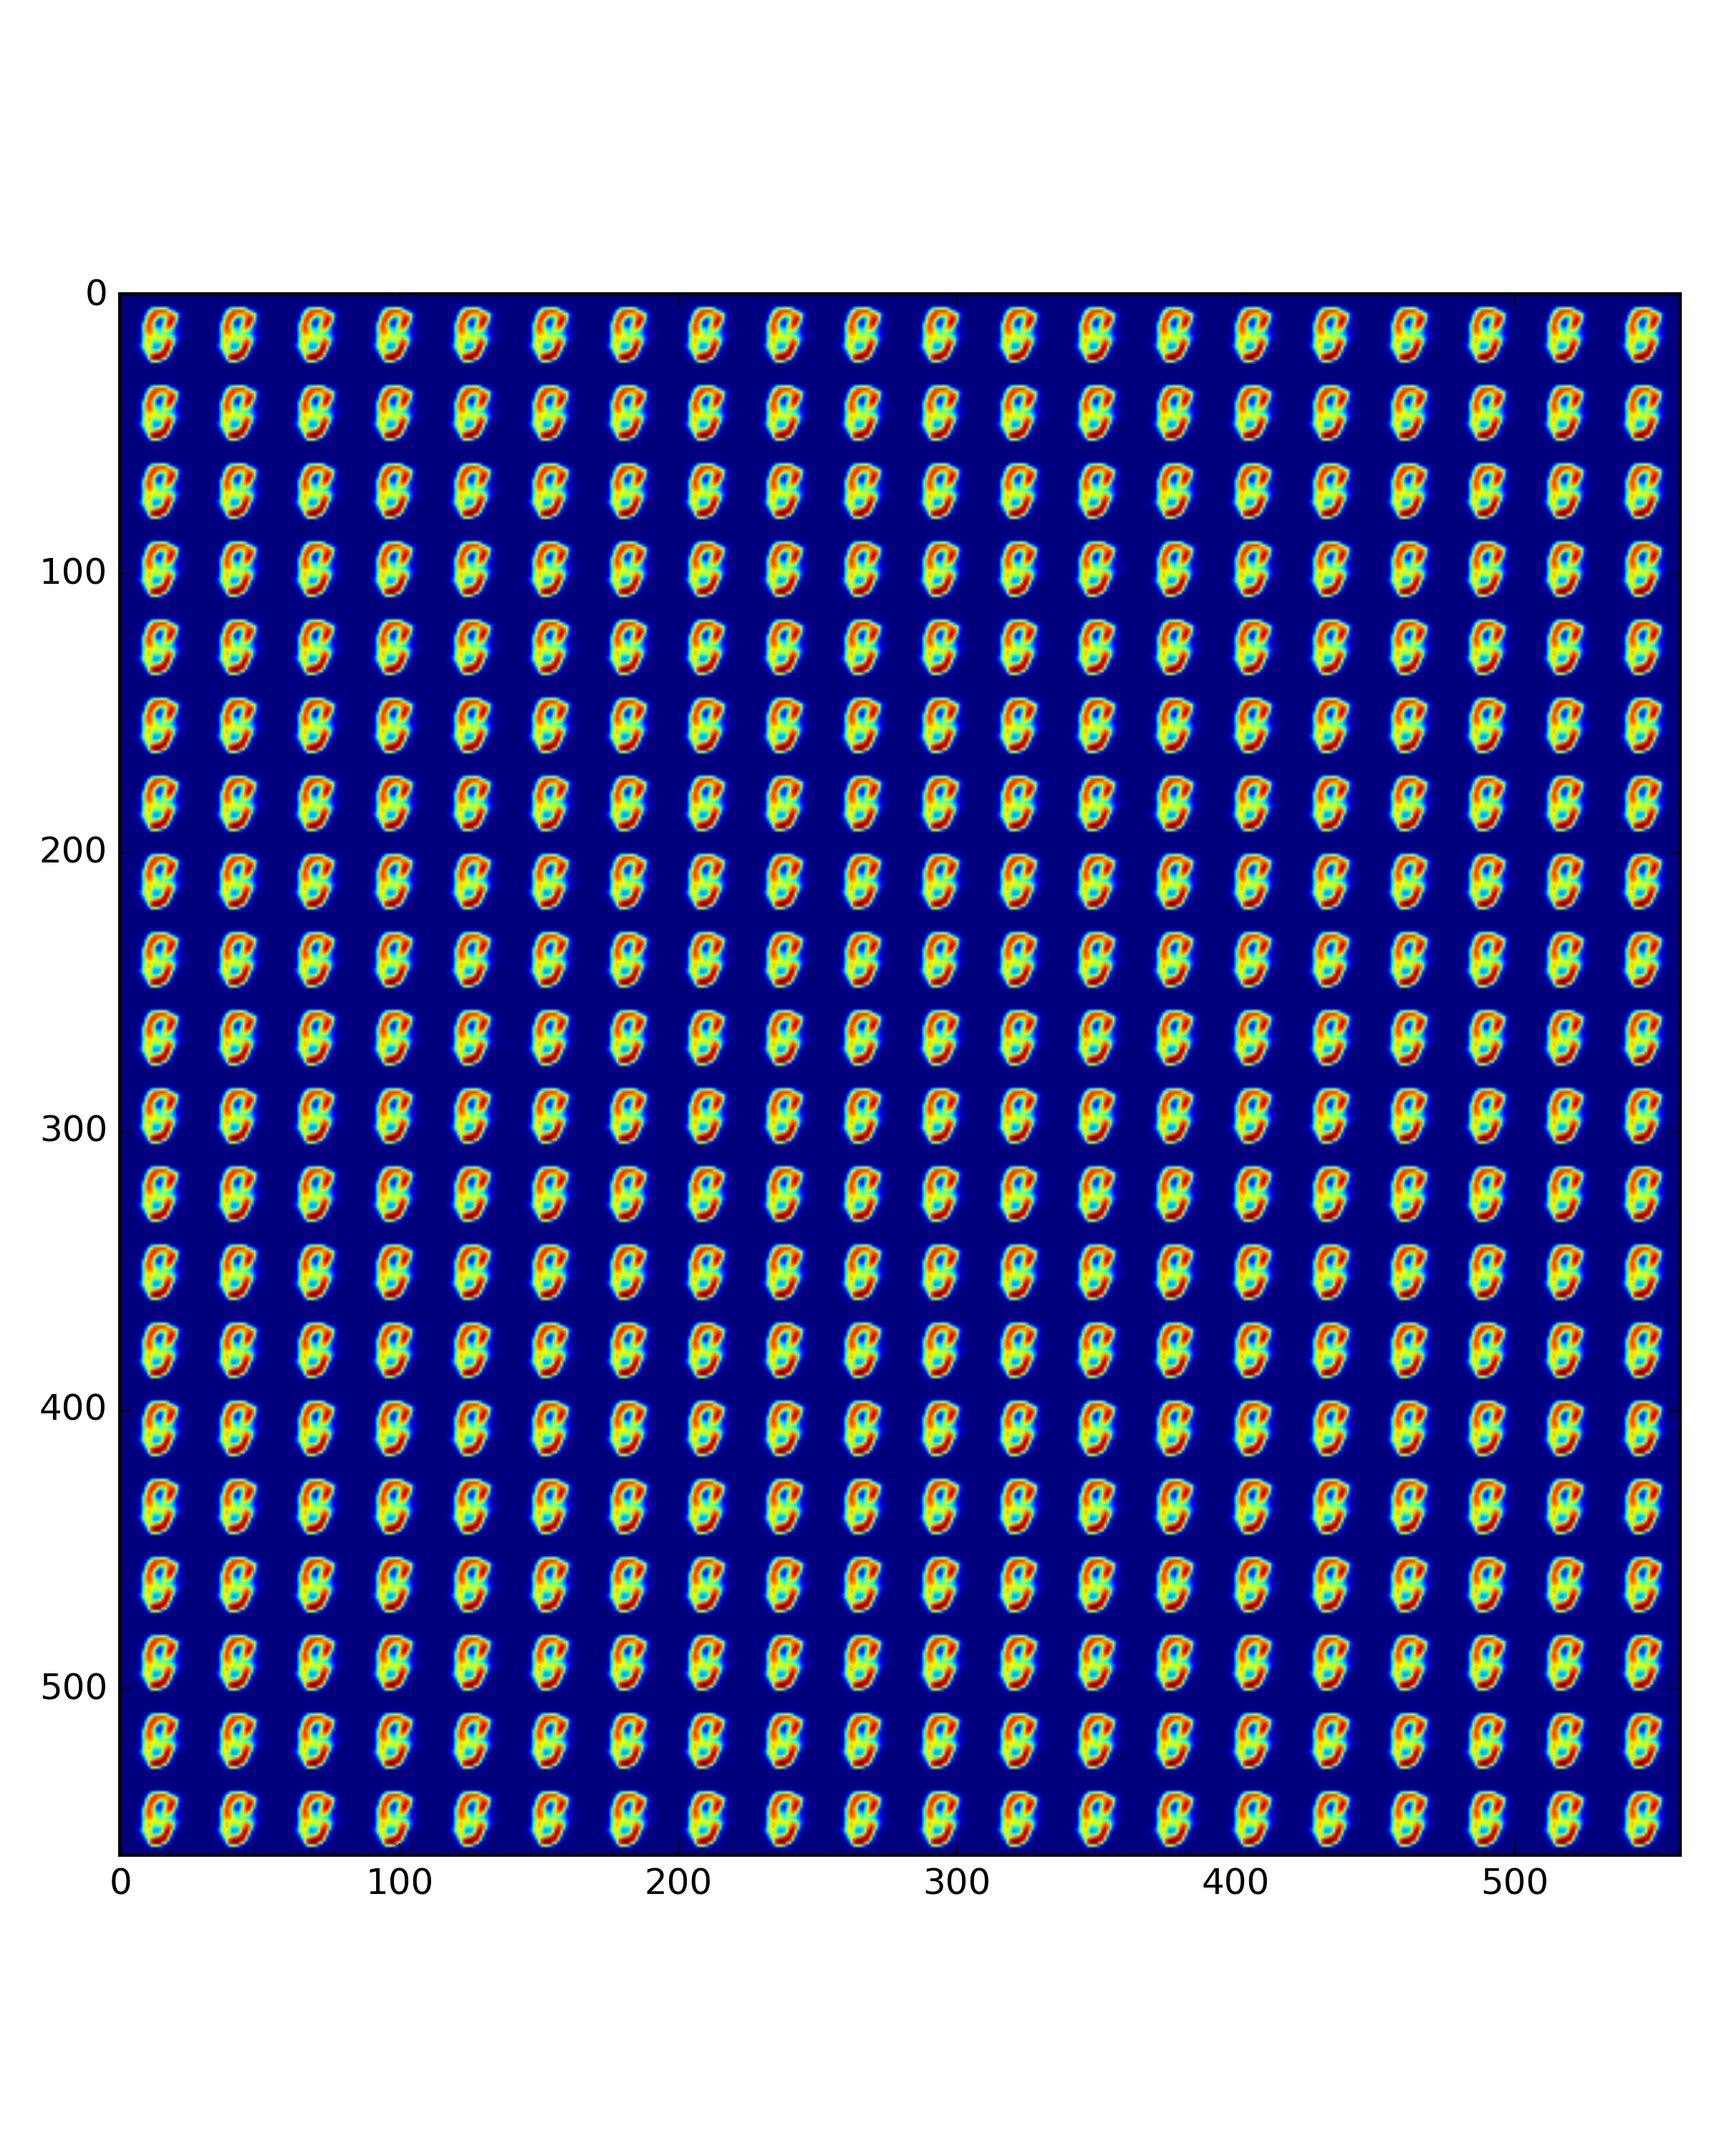
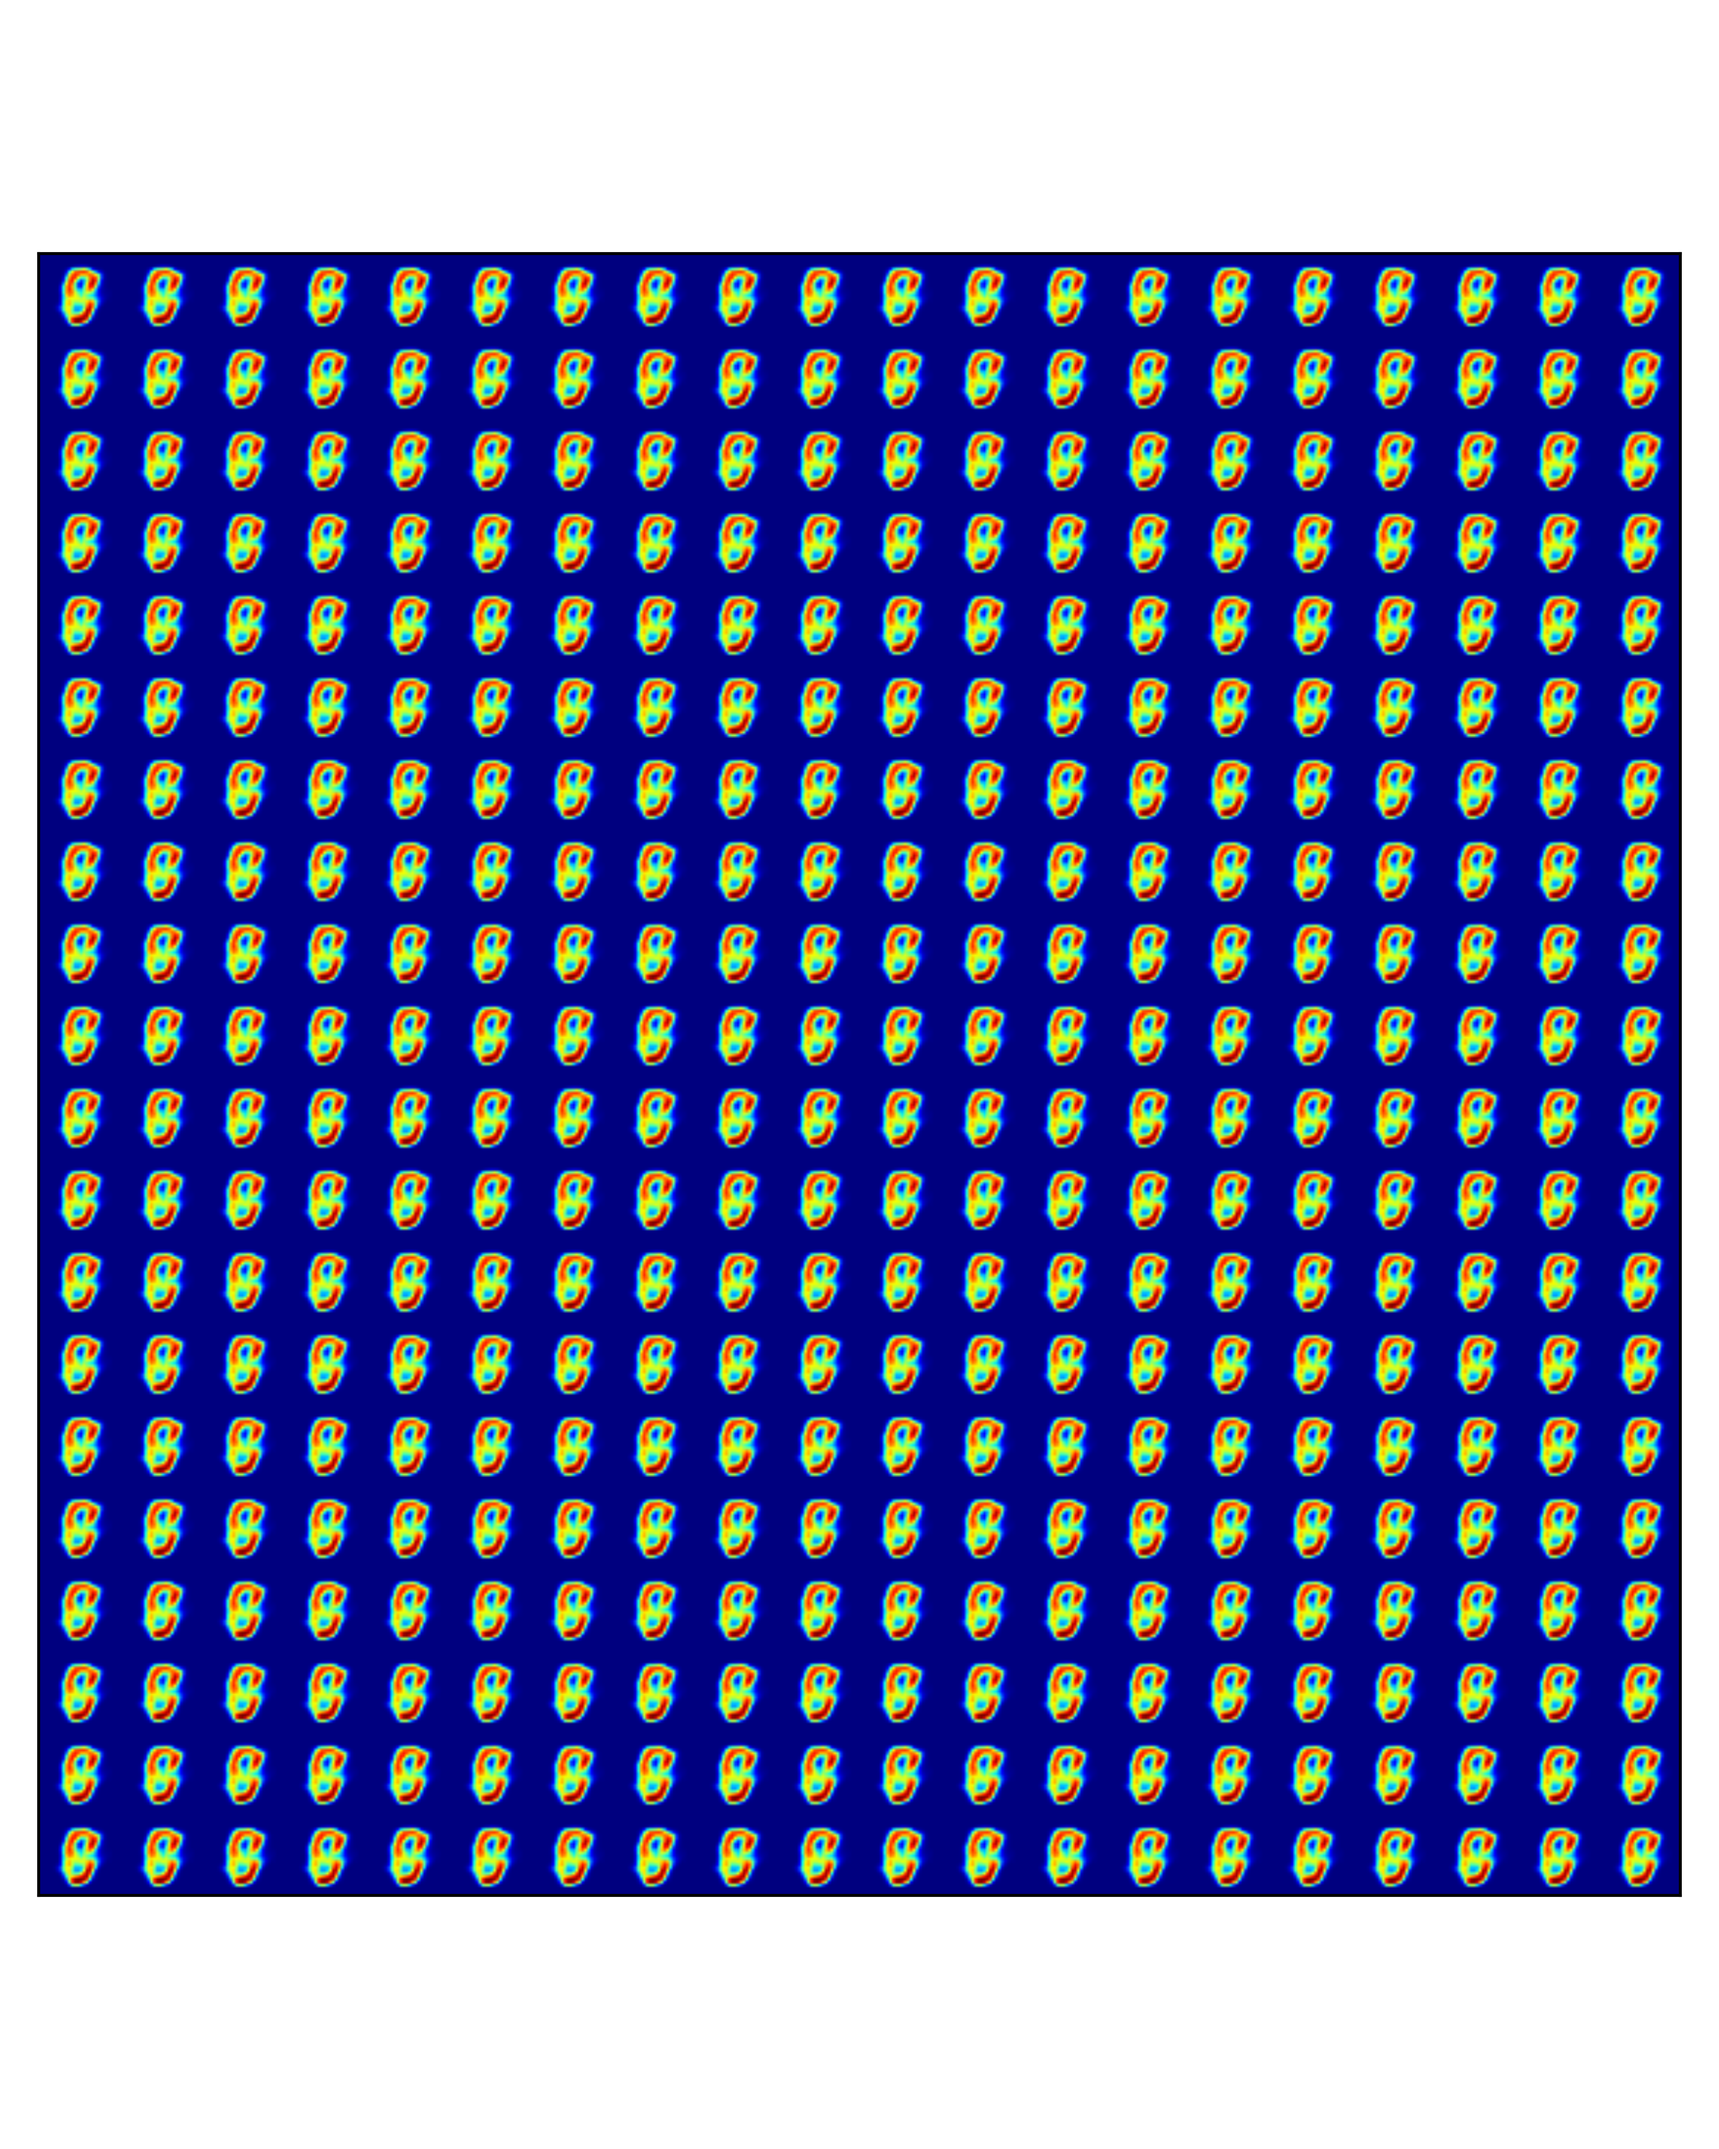
Adjust plot

diff --git a/vae_vis.py b/vae_vis.py
@@ -2,7 +2,7 @@ import numpy as np
 import matplotlib.pyplot as plt
 import vae_save
 mnist=vae_save.mnist
-
+font=18
 def lattice(mean_dims,indicies,d_i,full_dim):
     nx = ny = 20
     x_values = np.linspace(-3, 3, nx)
@@ -19,7 +19,9 @@ def lattice(mean_dims,indicies,d_i,full_dim):
 
     plt.figure(figsize=(8, 10))        
     Xi, Yi = np.meshgrid(x_values, y_values)
-    plt.imshow(canvas, origin="upper")
+    im=plt.imshow(canvas, origin="upper")
+    im.axes.get_xaxis().set_visible(False)
+    im.axes.get_yaxis().set_visible(False)
     plt.tight_layout()
     plt.savefig('plots/img/vis_latent%s_%s.png' % (full_dim, d_i), dpi=300)
 
@@ -36,26 +38,24 @@ for dim in [2,50]:
             sp.axes.get_yaxis().set_visible(False)
             plt.imshow(x_sample[i].reshape(28, 28), vmin=0, vmax=1)
             if i==0:
-                plt.title("Test input")
-            #plt.colorbar()
+                plt.title("Test input",fontsize=font)
             sp=plt.subplot(5, 3, 3*i + 2)
             sp.axes.get_xaxis().set_visible(False)
             sp.axes.get_yaxis().set_visible(False)
             plt.imshow(x_reconstruct[i].reshape(28, 28), vmin=0, vmax=1)
             if i==0:
-                plt.title("2D Reconstruction")
+                plt.title("2D Reconstruction",fontsize=font)
         elif dim==50:
             sp=plt.subplot(5, 3, 3*i + 3)
             sp.axes.get_xaxis().set_visible(False)
             sp.axes.get_yaxis().set_visible(False)
             plt.imshow(x_reconstruct[i].reshape(28, 28), vmin=0, vmax=1)
             if i==0:
-                plt.title("50D Reconstruction")
-            #plt.colorbar()#plt.colorbar()
+                plt.title("50D Reconstruction",fontsize=font)
     vae.sess.close()
-plt.tight_layout()
+plt.subplots_adjust(wspace=0,hspace=0)
+#plt.tight_layout()
 plt.savefig('plots/img/vis_recon.png',dpi=300)
-exit(0)
 for dim in [2,50]:
     vae=vae_save.load_and_run(dim,1.0,0,0,1,trial_num=0,nan=299)
     covar_dims, mean_dims=vae_save.latent_covar(vae)
@@ -63,7 +63,9 @@ for dim in [2,50]:
     x_sample2, y_sample2 = mnist.test.next_batch(5000)
     z_mu = vae.transform(x_sample2)
     plt.figure(figsize=(8, 6)) 
-    plt.scatter(z_mu[:, 0], z_mu[:, 1], c=np.argmax(y_sample2, 1))
+    scat=plt.scatter(z_mu[:, 1], z_mu[:, 0], c=np.argmax(y_sample2, 1))
+    scat.axes.get_xaxis().set_visible(False)
+    scat.axes.get_yaxis().set_visible(False)
     plt.colorbar()
     plt.savefig('plots/img/vis_scatter%s.png' % dim,dpi=300)
     if dim==2:
